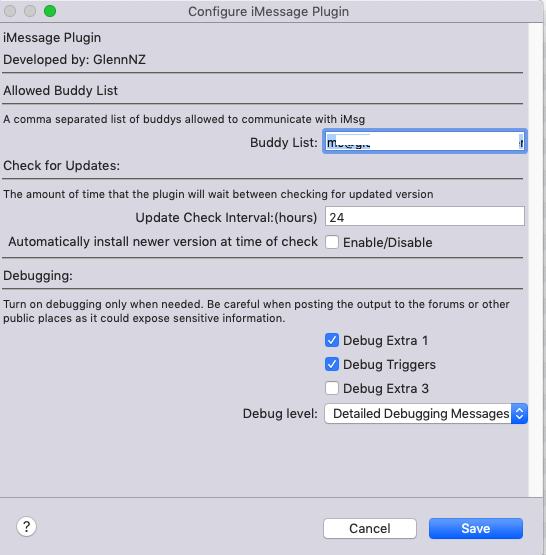
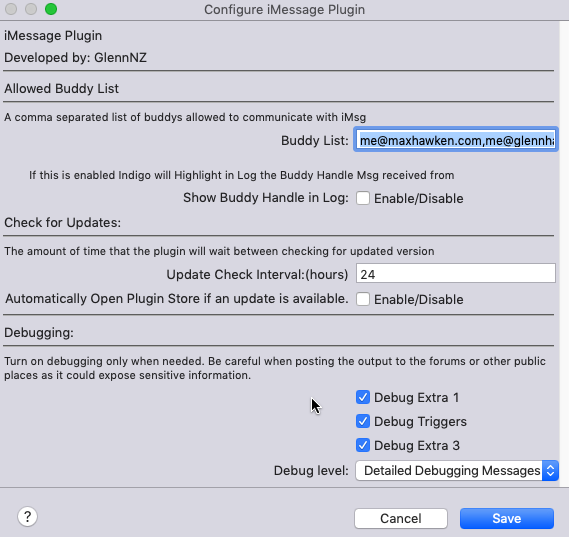
0.0.6 Add'Show Buddies in Log' setting to Show in Error Red the correct Buddy Handle if issues Change Documentation/Update Images Change Update checking to github currently Update Plugin Menu Items

Changed region(s): [[0.0, 0.0, 1.0, 1.0]]

diff --git a/iMessage.indigoPlugin/Contents/Server Plugin/plugin.py b/iMessage.indigoPlugin/Contents/Server Plugin/plugin.py
@@ -55,8 +55,10 @@ class Plugin(indigo.PluginBase):
         self.logger.debug(u"logLevel = " + str(self.logLevel))
         self.triggers = {}
 
+        self.showBuddies = self.pluginPrefs.get('showBuddies', False)
         self.debugextra = self.pluginPrefs.get('debugextra', False)
         self.debugtriggers = self.pluginPrefs.get('debugtriggers', False)
+        self.openStore = self.pluginPrefs.get('openStore', False)
 
         self.lastcommand = ()
         self.lastBuddy =''
@@ -98,7 +100,7 @@ class Plugin(indigo.PluginBase):
                 self.logLevel = logging.INFO
 
             self.indigo_log_handler.setLevel(self.logLevel)
-
+            self.showBuddies = valuesDict.get('showBuddies', False)
             self.allowedBuddies = valuesDict.get('allowedBuddies', '')
             self.openStore = valuesDict.get('openStore', False)
             self.logger.debug(u"logLevel = " + str(self.logLevel))
@@ -136,7 +138,7 @@ class Plugin(indigo.PluginBase):
         self.updater.update()
 
     def pluginstoreUpdate(self):
-        iurl = 'http://www.indigodomo.com/pluginstore/'
+        iurl = 'https://github.com/Ghawken/iMessagePlugin/releases/'
         self.browserOpen(iurl)
 
     #####
@@ -302,6 +304,11 @@ class Plugin(indigo.PluginBase):
         if self.allowedBuddies is None or self.allowedBuddies=='':
             self.logger.info(u'Message Received but Allowed Buddies nil please set in Config')
             return
+
+        if self.showBuddies:
+            self.logger.error(u'iMessage Received from Buddy:  Buddy Handle Below:')
+            self.logger.error(unicode(messages[0]))
+
 
         if messages[0] in self.allowedBuddies:
             if self.debugextra:

diff --git a/README.md b/README.md
@@ -33,6 +33,9 @@ https://www.macworld.com/article/3311982/macs/the-difference-between-accessibili
 
 - Download latest release and enable
 - Go to plugin Config screen to set allowed Buddies...
+
+- If hard to find out Buddy Handle (sometimes email, sometimes phone) enable Config checkbox 'Show Buddy Handle in Log'.  Send indigo Mac and iMsg if all is functioning correctly, the Plugin will highlight for you the correct Buddy Handle to use in the Plugin Config and the send iMessage boxes as required.
+
 - Any issues turn debug logging on and check 3 checkboxes - should supply useful information
 (including Buddy Handles as sometimes email sometimes phone numbers.)
 
